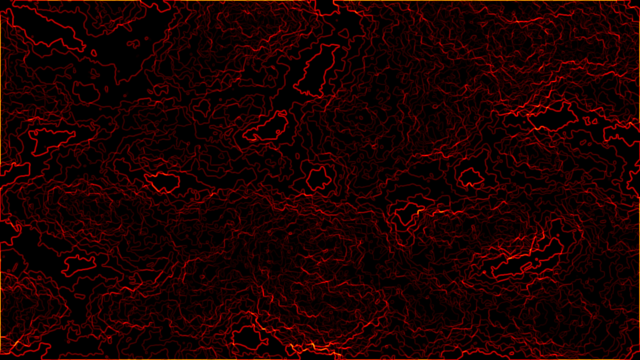
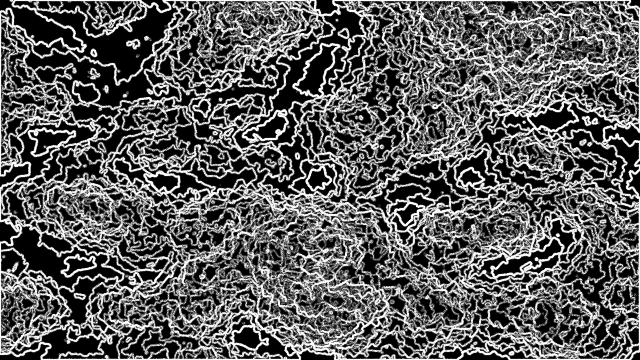
Ribbon (unused), rough cut of of overlay effect for spikey balls et cetera (too late/early to be more coherent)

diff --git a/code/shadertoy.cpp b/code/shadertoy.cpp
@@ -59,7 +59,7 @@ SyncTrack trackCloseSpikeNormalGrain;
 SyncTrack trackCloseSpikeScale;
 SyncTrack trackCloseSpikeRim;
 SyncTrack trackCloseSpikeAspectMul;
-SyncTrack trackCloseMixBlurMap, trackCloseMixBlur, trackCloseMixBlurOpacity;
+SyncTrack trackCloseMixBlurMap, trackCloseMixBlur, trackCloseMixBlurOpacity, trackCloseMixMapBlur;
 
 // Sinuses sync.:
 SyncTrack trackSinusesSpecular;
@@ -134,6 +134,7 @@ bool Shadertoy_Create()
 	trackCloseSpikeAspectMul = Rocket::AddTrack("closeSpike:AspectMul");
 	trackCloseMixBlurMap = Rocket::AddTrack("closeSpike:MixBlurMap");
 	trackCloseMixBlur = Rocket::AddTrack("closeSpike:MixBlur");
+	trackCloseMixMapBlur = Rocket::AddTrack("closeSpike:MixMapBlur");
 	trackCloseMixBlurOpacity = Rocket::AddTrack("closeSpike:MixBlurOpacity");
 
 	// Sinuses tunnel:
@@ -655,19 +656,37 @@ void Spikey_Draw(uint32_t *pDest, float time, float delta, bool close /* = true 
 		// render close-up
 		RenderSpikeyMap_2x2_Close(g_pFxMap[0], time);
 
+		// and now we'll be performing a little trick to make things more interesting
 		const float mbOpacity = saturatef(Rocket::getf(trackCloseMixBlurOpacity));
-		const float mbBlur = clampf(0.f, 100.f, Rocket::getf(trackCloseMixBlur));
-		const int mbMap = clampi(0, 1, Rocket::geti(trackCloseMixBlurMap));
 
 		if (mbOpacity > 0.f)
 		{
-			// dirty trick to add some flavour because showing off this effect for too long got boring!
+			// grab remaining Rocket parameters
+			const int mbMap = clampi(0, 1, Rocket::geti(trackCloseMixBlurMap));
+			const float mbBlur = clampf(0.f, 100.f, Rocket::getf(trackCloseMixBlur));
+			const float mbMapBlur = clampf(0.f, 100.f, Rocket::getf(trackCloseMixMapBlur));
+
+			// OK - this is fun, so let's first copy our two maps
 			memcpy(g_pFxMap[1], g_pFxMap[0], kFxMapBytes);
-			Excl32(g_pFxMap[1], s_pSpikeBlurMaps[mbMap], kFxMapSize);
-			BoxBlur32(g_pFxMap[1], g_pFxMap[1], kFxMapResX, kFxMapResY, BoxBlurScale(mbBlur));
-			BlitSrc32A(g_pFxMap[0], g_pFxMap[1], kFxMapResX, kFxMapResX, kFxMapResY, unsigned(mbOpacity*255.f));
+			memcpy(g_pFxMap[2], s_pSpikeBlurMaps[mbMap], kFxMapBytes);
+
+			// then blur the source 'spike blur map' if requested
+			if (mbMapBlur >= 1.f)
+				BoxBlur32(g_pFxMap[2], g_pFxMap[2], kFxMapResX, kFxMapResY, BoxBlurScale(mbMapBlur));
+			
+			// do we want to apply some blur to the copied effect itself?
+			if (mbBlur >= 1.f)
+				BoxBlur32(g_pFxMap[1], g_pFxMap[1], kFxMapResX, kFxMapResY, BoxBlurScale(mbBlur));
+			
+			// apply 'soft light' blend mode using appropriate map 
+			SoftLight32AA(g_pFxMap[1], g_pFxMap[2], kFxMapSize, tanhf(mbBlur+mbOpacity));
+
+			// mix 'em back together
+//			Mix32(g_pFxMap[0], g_pFxMap[1], kFxMapSize, unsigned(mbOpacity*255.f));
+			Overlay32A(g_pFxMap[0], g_pFxMap[1], kFxMapSize);
 		}
 
+		// blit to main buffer
 		Fx_Blit_2x2(pDest, g_pFxMap[0]);
 	}
 	else

diff --git a/code/demo.cpp b/code/demo.cpp
@@ -34,7 +34,7 @@ SyncTrack trackDiscoGuys, trackDiscoGuysAppearance[8];
 SyncTrack trackShow1995, trackShow2006;
 SyncTrack trackDirt;
 SyncTrack trackScapeOverlay, trackScapeRevision, trackScapeFade;
-SyncTrack trackDistortTPB, trackDistortStrengthTPB, trackBlurTPB;
+SyncTrack trackDistortTPB, trackDistortStrengthTPB, trackBlurTPB, trackRibbonsTPB;
 SyncTrack trackGreetSwitch;
 SyncTrack trackCousteau;
 SyncTrack trackCousteauHorzBlur;
@@ -105,6 +105,9 @@ static uint32_t* s_pWaterPrismOverlay = nullptr;
 // shooting star art
 static uint32_t *s_pLenz = nullptr;
 
+// ribbons (2160x720)
+static uint32_t *s_pRibbons = nullptr;
+
 // --- Shooting star related things ---
 
 constexpr unsigned kLenzSize = 64;
@@ -151,6 +154,7 @@ bool Demo_Create()
 	trackDistortTPB = Rocket::AddTrack("demo:DistortTPB");
 	trackDistortStrengthTPB = Rocket::AddTrack("demo:DistortStrengthTPB");
 	trackBlurTPB = Rocket::AddTrack("demo:BlurTPB");
+	trackRibbonsTPB = Rocket::AddTrack("demo:RibbonsX");
 	trackGreetSwitch = Rocket::AddTrack("demo:GreetSwitch");
 	trackCousteau = Rocket::AddTrack("demo:Cousteau");
 	trackCousteauHorzBlur = Rocket::AddTrack("demo:CousteauHorzBlur");
@@ -265,6 +269,11 @@ bool Demo_Create()
 
 	// shooting star
 	s_pLenz = Image_Load32("assets/shooting/Lenz.png");
+
+	// ribbons
+	s_pRibbons = Image_Load32("assets/demo/ribbons.png");
+	if (nullptr == s_pRibbons)
+		return false;
 
 	return fxInit;
 }
@@ -523,7 +532,7 @@ bool Demo_Draw(uint32_t *pDest, float timer, float delta)
 					Darken32_50(pDest, s_pCloseSpikeDirt, kOutputSize);
 				}
 				else if (2 == dirt)
-					SoftLight32AA(pDest, s_pGreetingsDirt, kOutputSize, 0.09f*kGoldenAngle); // FIXME: borrowed asset
+					SoftLight32AA(pDest, s_pGreetingsDirt, kOutputSize, 0.09f*kGoldenRatio); // FIXME: borrowed asset
 				else if (3 == dirt)
 					SoftLight32AA(pDest, s_pGreetingsDirt, kOutputSize, 0.075f*kGoldenAngle); // FIXME: borrowed asset
 			}
@@ -588,6 +597,10 @@ bool Demo_Draw(uint32_t *pDest, float timer, float delta)
 			{
 				// TPB represent
 				memset32(g_renderTarget[0], 0xffffff, kResX*kResY);
+
+				// ribbon (F*CK this for now)
+//				const auto ribX = clampi(0.f, kResX, Rocket::geti(trackRibbonsTPB));
+//				MixSrc32S(g_renderTarget[0], s_pRibbons + ribX, kResX, kResY, 2160-kResX);
 
 //				BlitSrc32(g_renderTarget[0] + ((kResX-800)/2) + ((kResY-600)/2)*kResX, g_pNytrikMexico, kResX, 800, 600);
 //				memcpy(g_renderTarget[0], g_pNytrikTPB, kOutputBytes);

diff --git a/code/util.cpp b/code/util.cpp
@@ -340,7 +340,7 @@ void SoftLight32AA(uint32_t *pDest, const uint32_t *pSrc, unsigned numPixels, fl
 			G = G2+(((G-G2)*_A1)>>8);
 			B = B2+(((B-B2)*_A1)>>8);
 
-			const uint32_t result = (R<<16)|(G<<8)|B;
+			const uint32_t result = (_A1<<24)|(R<<16)|(G<<8)|B;
 			pDest[iPixel] = result;
     }
 }
@@ -632,6 +632,31 @@ void MulSrc32A(uint32_t *pDest, const uint32_t *pSrc, unsigned int numPixels)
 		const __m128i delta = _mm_mullo_epi16(alphaUnp, destColor); 
 		const __m128i color = _mm_srli_epi16(delta, 8);
 		pDest[iPixel] = _mm_cvtsi128_si32(_mm_packus_epi16(color, zero));
+	}
+}
+
+void MixSrc32S(uint32_t *pDest, const uint32_t *pSrc, unsigned resX, unsigned resY, unsigned srcStride)
+{
+	const __m128i zero = _mm_setzero_si128();
+
+	#pragma omp parallel for schedule(static)
+	for (int iY = 0; iY < int(resY); ++iY)
+	{
+		const auto yIndex = iY*resX;
+		const auto yIndexSrc = iY*(resX+srcStride);
+
+		for (int iX = 0; iX < resX; ++iX)
+		{
+			const auto srcIndex = yIndexSrc + iX; 
+			const auto destIndex = yIndex + iX;
+
+			const __m128i srcColor = _mm_unpacklo_epi8(_mm_cvtsi32_si128(pSrc[srcIndex]), zero);
+			const __m128i alphaUnp = _mm_shufflelo_epi16(srcColor, 0xff);
+			const __m128i destColor = _mm_unpacklo_epi8(_mm_cvtsi32_si128(pDest[destIndex]), zero);
+			const __m128i delta = _mm_mullo_epi16(alphaUnp, _mm_sub_epi16(srcColor, destColor));
+			const __m128i color = _mm_srli_epi16(_mm_add_epi16(_mm_slli_epi16(destColor, 8), delta), 8);
+			pDest[destIndex] = _mm_cvtsi128_si32(_mm_packus_epi16(color, zero));
+		}
 	}
 }
 

diff --git a/code/util.h b/code/util.h
@@ -122,8 +122,9 @@ void Darken32_50(uint32_t *pDest, const uint32_t *pSrc, unsigned numPixels);
 void MulSrc32(uint32_t *pDest, const uint32_t *pSrc, unsigned int numPixels);
 void MulSrc32A(uint32_t *pDest, const uint32_t *pSrc, unsigned int numPixels);
 
-// blend 32-bit color buffers using the source buffer's alpha
+// blend 32-bit color buffers using the source buffer's alpha (the latter has a src. stride)
 void MixSrc32(uint32_t *pDest, const uint32_t *pSrc, unsigned int numPixels);
+void MixSrc32S(uint32_t *pDest, const uint32_t *pSrc, unsigned destResX, unsigned destResY, unsigned srcStride);
 
 // blit 32-bit color buffer using the source buffer's alpha
 // use this to composite graphics on top of effects for ex.
